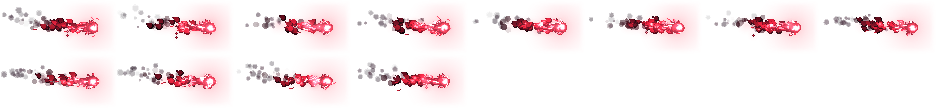
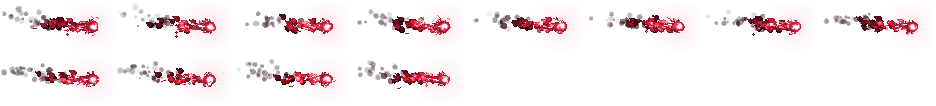
Battle effects at 2x, less glow (#64)
* Battle effects at 2x with less baked glow

- Effects draw at least 2 screen px per effect pixel (FX_PIXEL); runes, ground fire, heal ring and the
  Asteria coin blast keep 1x via px
- Sheets re-rendered with glow 0.45 (lightning keeps 1); kill puff uses a dark dust palette
- The four most common sheets (hit spark, crit, puff, violet burst) are now in tools/pfx_sheets.mjs

* Calmer hero-side effects

- Elite auras at 0.45 alpha, fading further when more than three elites are on the field
- Stun stars back to 1x; mage stun beam thinner and shorter, smaller ring; bard song ring and notes lighter
- Elite shock: lightning sprite on at most four targets, at 1x (fx_shock_small); bosses keep the big one

---------

diff --git a/js/data/fx_sheets.js b/js/data/fx_sheets.js
@@ -2,49 +2,54 @@
 // 열쇠는 코드가 부르는 효과 이름이다(이전 효과 그림의 이름을 그대로 쓴다). 그림은 assets/fx/<image>.png, 한 줄에 cols칸씩 왼쪽 위부터 채운다.
 // pivot은 Fx.anim에 넘긴 좌표가 닿는 그림 속 점, life는 재생 길이(초), fit은 화면 1배로 그리는 기준 size(화면 px)다.
 // loop가 true면 상태 표시처럼 Game.time에 맞춰 반복해 그린다(Render.drawLoopSheet). shot이 true면 투사체 그림이다(날아가는 방향으로 돌린다)
+// 효과 픽셀 하나를 화면 몇 px 이상으로 그리는가. pixelfx 효과는 작은 캐릭터 기준이라 몬스터(키 76px 안팎) 옆에서는 2배라야 또렷하다.
+// 시트마다 px로 바꿀 수 있다(바닥에 깔리는 룬과 장판, 해상도가 높은 Asteria 그림은 1)
+const FX_PIXEL = 2;
+
 const FX_SHEETS = {
     // add: 검은 바탕 그림이라 빛을 더해(lighter) 그린다
     // 정예와 보스 처치: Asteria 해적 선장의 동전 폭발(tools/import_asteria_gold.py)
-    fx_coin_blast: { image: 'pfx_coin_blast', w: 128, h: 128, cols: 8, frames: 8, pivotX: 64, pivotY: 64, life: 0.6, fit: 128, add: true },
+    fx_coin_blast: { image: 'pfx_coin_blast', w: 128, h: 128, cols: 8, frames: 8, pivotX: 64, pivotY: 64, life: 0.6, fit: 128, add: true, px: 1 },
     // 정예 용사 오라: Asteria 모험가 오라 그대로(tools/import_asteria_heroes.py). 몸 뒤에서 돈다
     fx_aura_elite_swordsman: { image: 'pfx_aura_nightExecutioner', w: 128, h: 128, cols: 8, frames: 8, pivotX: 64, pivotY: 64, life: 0.8, fit: 128, loop: true },
     fx_aura_elite_tamer: { image: 'pfx_aura_mistBlade', w: 128, h: 128, cols: 8, frames: 8, pivotX: 64, pivotY: 64, life: 0.8, fit: 128, loop: true },
     fx_aura_elite_stormcaller: { image: 'pfx_aura_thunderSage', w: 128, h: 128, cols: 8, frames: 8, pivotX: 64, pivotY: 64, life: 0.8, fit: 128, loop: true },
     fx_aura_elite_rhapsodist: { image: 'pfx_aura_sunMoonDance', w: 128, h: 128, cols: 8, frames: 8, pivotX: 64, pivotY: 64, life: 0.8, fit: 128, loop: true },
-    fx_hit_physical: { image: 'pfx_hit_spark', w: 122, h: 71, cols: 8, frames: 15, pivotX: 34, pivotY: 36, life: 0.5, fit: 110 }, // impacts/hit-spark
-    fx_hit_crit: { image: 'pfx_crit_hit', w: 174, h: 131, cols: 8, frames: 18, pivotX: 77, pivotY: 76, life: 0.6, fit: 150 }, // impacts/crit-hit
-    fx_explosion: { image: 'pfx_poof', w: 91, h: 76, cols: 8, frames: 18, pivotX: 43, pivotY: 40, life: 0.6, fit: 100 }, // spawn/poof
-    fx_blastViolet: { image: 'pfx_mana_burst', w: 170, h: 146, cols: 8, frames: 16, pivotX: 85, pivotY: 93, life: 0.533, fit: 180 }, // arcane/mana-burst
+    fx_hit_physical: { image: 'pfx_hit_spark', w: 119, h: 70, cols: 8, frames: 15, pivotX: 32, pivotY: 56, life: 0.5, fit: 110 }, // impacts/hit-spark
+    fx_hit_crit: { image: 'pfx_crit_hit', w: 170, h: 129, cols: 8, frames: 18, pivotX: 74, pivotY: 100, life: 0.6, fit: 150 }, // impacts/crit-hit
+    fx_explosion: { image: 'pfx_poof', w: 86, h: 75, cols: 8, frames: 18, pivotX: 39, pivotY: 64, life: 0.6, fit: 100 }, // spawn/poof
+    fx_blastViolet: { image: 'pfx_mana_burst', w: 167, h: 145, cols: 8, frames: 16, pivotX: 85, pivotY: 92, life: 0.533, fit: 180 }, // arcane/mana-burst
     // 이전 효과 그림을 바꾼 것
     fx_hit_lightning: { image: 'pfx_zap_hit', w: 129, h: 104, cols: 8, frames: 14, pivotX: 75, pivotY: 52, life: 0.45, fit: 130 }, // lightning/zap-hit
-    fx_hit_fire: { image: 'pfx_fire_blast', w: 206, h: 190, cols: 8, frames: 20, pivotX: 108, pivotY: 95, life: 0.7, fit: 200 }, // explosions/plasma-explosion(불 팔레트)
-    fx_blastGold: { image: 'pfx_gold_burst', w: 170, h: 146, cols: 8, frames: 16, pivotX: 85, pivotY: 93, life: 0.6, fit: 180 }, // arcane/mana-burst(금색)
-    fx_blastCyan: { image: 'pfx_cyan_burst', w: 170, h: 146, cols: 8, frames: 16, pivotX: 85, pivotY: 93, life: 0.5, fit: 180 }, // arcane/mana-burst(청록)
-    fx_blastPink: { image: 'pfx_roar', w: 151, h: 114, cols: 8, frames: 20, pivotX: 76, pivotY: 63, life: 0.9, fit: 150 }, // scifi/emp-blast(분홍)
+    fx_shock_small: { image: 'pfx_zap_hit', w: 129, h: 104, cols: 8, frames: 14, pivotX: 75, pivotY: 52, life: 0.45, fit: 130, px: 1 }, // 용사(정예 뇌술사)의 범위 감전: 같은 그림을 1배로
+    fx_hit_fire: { image: 'pfx_fire_blast', w: 200, h: 190, cols: 8, frames: 20, pivotX: 102, pivotY: 95, life: 0.7, fit: 200 }, // explosions/plasma-explosion(불 팔레트)
+    fx_blastGold: { image: 'pfx_gold_burst', w: 167, h: 145, cols: 8, frames: 16, pivotX: 85, pivotY: 92, life: 0.6, fit: 180 }, // arcane/mana-burst(금색)
+    fx_blastCyan: { image: 'pfx_cyan_burst', w: 167, h: 145, cols: 8, frames: 16, pivotX: 85, pivotY: 92, life: 0.5, fit: 180 }, // arcane/mana-burst(청록)
+    fx_blastPink: { image: 'pfx_roar', w: 151, h: 112, cols: 8, frames: 20, pivotX: 76, pivotY: 62, life: 0.9, fit: 150 }, // scifi/emp-blast(분홍)
     fx_adv_arcanist_lightning: { image: 'pfx_lightning_strike', w: 231, h: 262, cols: 8, frames: 19, pivotX: 115, pivotY: 227, life: 0.8, fit: 300 }, // lightning/lightning-strike
     fx_adv_arcanist_thunderGod: { image: 'pfx_thunderclap', w: 254, h: 151, cols: 8, frames: 23, pivotX: 128, pivotY: 110, life: 0.9, fit: 254 }, // lightning/thunderclap
-    fx_adv_doomMelody_requiem: { image: 'pfx_soul_rise', w: 88, h: 114, cols: 8, frames: 20, pivotX: 44, pivotY: 101, life: 0.9, fit: 120 }, // spawn/soul-rise(보라)
+    fx_adv_doomMelody_requiem: { image: 'pfx_soul_rise', w: 84, h: 113, cols: 8, frames: 20, pivotX: 42, pivotY: 100, life: 0.9, fit: 120 }, // spawn/soul-rise(보라)
     // 투사체(pivot은 앞 끝)
-    fx_arrowPoison: { image: 'pfx_arrow', w: 94, h: 18, cols: 8, frames: 9, pivotX: 88, pivotY: 10, life: 0.3, fit: 90, shot: true }, // projectiles/arrow
-    fx_arrowBig: { image: 'pfx_arrow', w: 94, h: 18, cols: 8, frames: 9, pivotX: 88, pivotY: 10, life: 0.3, fit: 90, shot: true }, // 같은 화살을 2배로
-    fx_shot_curse: { image: 'pfx_arrow_curse', w: 94, h: 18, cols: 8, frames: 9, pivotX: 88, pivotY: 10, life: 0.3, fit: 90, shot: true }, // projectiles/arrow(보라)
-    fx_shot_fire: { image: 'pfx_fireball', w: 117, h: 54, cols: 8, frames: 12, pivotX: 94, pivotY: 27, life: 0.6, fit: 110, shot: true }, // fire/fireball
-    fx_shot_blood: { image: 'pfx_bloodball', w: 117, h: 54, cols: 8, frames: 12, pivotX: 94, pivotY: 27, life: 0.6, fit: 110, shot: true }, // fire/fireball(핏빛)
-    fx_shot_ice: { image: 'pfx_ice_lance', w: 142, h: 50, cols: 8, frames: 12, pivotX: 129, pivotY: 25, life: 0.4, fit: 130, shot: true }, // ice/ice-lance
-    fx_shot_axe: { image: 'pfx_axe', w: 97, h: 48, cols: 8, frames: 15, pivotX: 72, pivotY: 24, life: 0.5, fit: 90, shot: true }, // projectiles/energy-disc(강철)
-    fx_shot_jester: { image: 'pfx_jester_disc', w: 97, h: 48, cols: 8, frames: 15, pivotX: 72, pivotY: 24, life: 0.5, fit: 90, shot: true }, // projectiles/energy-disc(분홍)
+    fx_arrowPoison: { image: 'pfx_arrow', w: 93, h: 16, cols: 8, frames: 9, pivotX: 88, pivotY: 9, life: 0.3, fit: 90, shot: true }, // projectiles/arrow
+    fx_arrowBig: { image: 'pfx_arrow', w: 93, h: 16, cols: 8, frames: 9, pivotX: 88, pivotY: 9, life: 0.3, fit: 90, shot: true }, // 같은 화살을 2배로
+    fx_shot_curse: { image: 'pfx_arrow_curse', w: 93, h: 16, cols: 8, frames: 9, pivotX: 88, pivotY: 9, life: 0.3, fit: 90, shot: true }, // projectiles/arrow(보라)
+    fx_shot_fire: { image: 'pfx_fireball', w: 117, h: 53, cols: 8, frames: 12, pivotX: 94, pivotY: 26, life: 0.6, fit: 110, shot: true }, // fire/fireball
+    fx_shot_blood: { image: 'pfx_bloodball', w: 117, h: 53, cols: 8, frames: 12, pivotX: 94, pivotY: 26, life: 0.6, fit: 110, shot: true }, // fire/fireball(핏빛)
+    fx_shot_ice: { image: 'pfx_ice_lance', w: 142, h: 44, cols: 8, frames: 12, pivotX: 129, pivotY: 22, life: 0.4, fit: 130, shot: true }, // ice/ice-lance
+    fx_shot_axe: { image: 'pfx_axe', w: 96, h: 48, cols: 8, frames: 15, pivotX: 72, pivotY: 24, life: 0.5, fit: 90, shot: true }, // projectiles/energy-disc(강철)
+    fx_shot_jester: { image: 'pfx_jester_disc', w: 96, h: 48, cols: 8, frames: 15, pivotX: 72, pivotY: 24, life: 0.5, fit: 90, shot: true }, // projectiles/energy-disc(분홍)
     // 몬스터 능력
-    fx_burning: { image: 'pfx_burning', w: 78, h: 100, cols: 8, frames: 15, pivotX: 39, pivotY: 71, life: 1.5, fit: 100, loop: true }, // fire/spirit-flame(불)
-    fx_fire_ground: { image: 'pfx_fire_ground', w: 162, h: 122, cols: 8, frames: 8, pivotX: 81, pivotY: 87, life: 0.8, fit: 160, loop: true }, // fire/fire-ring
-    fx_snowflake: { image: 'pfx_snowflake', w: 126, h: 115, cols: 8, frames: 20, pivotX: 63, pivotY: 74, life: 0.8, fit: 130 }, // ice/snowflake-burst
-    fx_stunned: { image: 'pfx_stunned', w: 50, h: 39, cols: 8, frames: 15, pivotX: 24, pivotY: 20, life: 1, fit: 50, loop: true }, // status/stunned
-    fx_heal: { image: 'pfx_heal', w: 77, h: 88, cols: 8, frames: 19, pivotX: 36, pivotY: 51, life: 0.7, fit: 80 }, // pickups/collect-burst(초록)
-    fx_lifesteal: { image: 'pfx_lifesteal', w: 77, h: 88, cols: 8, frames: 19, pivotX: 36, pivotY: 51, life: 0.6, fit: 80 }, // pickups/collect-burst(붉은)
-    fx_gold: { image: 'pfx_gold', w: 77, h: 88, cols: 8, frames: 19, pivotX: 36, pivotY: 51, life: 0.8, fit: 80 }, // pickups/collect-burst(금색)
-    fx_heal_aoe: { image: 'pfx_heal_aoe', w: 234, h: 117, cols: 8, frames: 22, pivotX: 117, pivotY: 86, life: 1.2, fit: 230 }, // holy/heal-aoe
-    fx_rune_heal: { image: 'pfx_rune_heal', w: 118, h: 95, cols: 8, frames: 15, pivotX: 59, pivotY: 75, life: 4, fit: 120, loop: true }, // arcane/rune-circle(초록)
-    fx_rune_damage: { image: 'pfx_rune_damage', w: 118, h: 95, cols: 8, frames: 15, pivotX: 59, pivotY: 75, life: 4, fit: 120, loop: true }, // arcane/rune-circle(붉은)
-    fx_rune_attackSpeed: { image: 'pfx_rune_speed', w: 118, h: 96, cols: 8, frames: 15, pivotX: 59, pivotY: 76, life: 4, fit: 120, loop: true }, // arcane/rune-circle(노랑)
-    fx_cleave: { image: 'pfx_cleave', w: 183, h: 101, cols: 8, frames: 23, pivotX: 79, pivotY: 82, life: 0.5, fit: 180 }, // melee/spin-slash(주황)
-    fx_thorns: { image: 'pfx_thorns', w: 203, h: 77, cols: 8, frames: 20, pivotX: 100, pivotY: 64, life: 0.8, fit: 200 } // nature/thorns
+    fx_burning: { image: 'pfx_burning', w: 76, h: 98, cols: 8, frames: 15, pivotX: 38, pivotY: 70, life: 1.5, fit: 100, loop: true }, // fire/spirit-flame(불)
+    fx_fire_ground: { image: 'pfx_fire_ground', w: 152, h: 117, cols: 8, frames: 8, pivotX: 76, pivotY: 82, life: 0.8, fit: 160, loop: true, px: 1 }, // fire/fire-ring
+    fx_snowflake: { image: 'pfx_snowflake', w: 120, h: 113, cols: 8, frames: 20, pivotX: 60, pivotY: 73, life: 0.8, fit: 130 }, // ice/snowflake-burst
+    fx_stunned: { image: 'pfx_stunned', w: 50, h: 37, cols: 8, frames: 15, pivotX: 24, pivotY: 55, life: 1, fit: 50, loop: true, px: 1 }, // status/stunned
+    fx_heal: { image: 'pfx_heal', w: 77, h: 87, cols: 8, frames: 19, pivotX: 36, pivotY: 51, life: 0.7, fit: 80 }, // pickups/collect-burst(초록)
+    fx_lifesteal: { image: 'pfx_lifesteal', w: 77, h: 87, cols: 8, frames: 19, pivotX: 36, pivotY: 51, life: 0.6, fit: 80 }, // pickups/collect-burst(붉은)
+    fx_gold: { image: 'pfx_gold', w: 77, h: 87, cols: 8, frames: 19, pivotX: 36, pivotY: 51, life: 0.8, fit: 80 }, // pickups/collect-burst(금색)
+    fx_heal_aoe: { image: 'pfx_heal_aoe', w: 232, h: 114, cols: 8, frames: 22, pivotX: 116, pivotY: 83, life: 1.2, fit: 230, px: 1 }, // holy/heal-aoe
+    fx_rune_heal: { image: 'pfx_rune_heal', w: 116, h: 89, cols: 8, frames: 15, pivotX: 58, pivotY: 70, life: 4, fit: 120, loop: true, px: 1 }, // arcane/rune-circle(초록)
+    fx_rune_damage: { image: 'pfx_rune_damage', w: 116, h: 89, cols: 8, frames: 15, pivotX: 58, pivotY: 70, life: 4, fit: 120, loop: true, px: 1 }, // arcane/rune-circle(붉은)
+    fx_rune_attackSpeed: { image: 'pfx_rune_speed', w: 116, h: 90, cols: 8, frames: 15, pivotX: 58, pivotY: 71, life: 4, fit: 120, loop: true, px: 1 }, // arcane/rune-circle(노랑)
+    fx_cleave: { image: 'pfx_cleave', w: 183, h: 99, cols: 8, frames: 23, pivotX: 79, pivotY: 80, life: 0.5, fit: 180 }, // melee/spin-slash(주황)
+    fx_thorns: { image: 'pfx_thorns', w: 203, h: 76, cols: 8, frames: 20, pivotX: 26, pivotY: 63, life: 0.8, fit: 200 } // nature/thorns
 };

diff --git a/js/game/hero.js b/js/game/hero.js
@@ -207,8 +207,8 @@ function updateMageCast(h, dt) {
     h.cast = def.stunEvery;
     h.atkPose = h.atkPoseMax = def.atkTime || ATTACK_POSE_TIME; // 정예 그림에는 atkTime이 없다
     applyStun(target, def.stunTime);
-    Fx.beam(w.x, w.y - (h.elite ? 80 : 44), target.x, target.y - 60, '#7fd8ff', 8, 0.3);
-    Fx.ring(target.x, target.y - 30, 100, '#7fd8ff', 0.4);
+    Fx.beam(w.x, w.y - (h.elite ? 80 : 44), target.x, target.y - 60, '#7fd8ff', 4, 0.22); // 용사 쪽 효과는 몬스터 효과보다 작고 짧게
+    Fx.ring(target.x, target.y - 30, 60, '#7fd8ff', 0.3);
     if (Math.random() < 0.3) Fx.say(w.x, w.y - 150, '멈춰라!', 0.9);
     Sfx.play('stun');
 }
@@ -231,8 +231,8 @@ function updateSong(h, dt) {
         o.haste = Math.max(o.haste, rule.duration);
         o.hasteMul = rule.speedMul;
     }
-    Fx.ring(w.x, w.y, rule.radius * TILE, '#8dffb4', 0.5);
-    Fx.rise(w.x, w.y - 90, '#b8ffcf', 14, 40, 0.8);
+    Fx.ring(w.x, w.y, rule.radius * TILE, '#8dffb4', 0.35);
+    Fx.rise(w.x, w.y - 90, '#b8ffcf', 8, 40, 0.6);
     if (Math.random() < 0.3) Fx.say(w.x, w.y - 250, '달려라, 친구들!', 0.9);
     Sfx.play('spawn');
 }
@@ -282,12 +282,13 @@ function updateWindup(h, dt) {
     for (const t of targets) applyStun(t, b.stun);
     if (b.kind === 'shock') {
         const big = h.boss;
-        for (const t of targets) {
+        // 용사 쪽 감전: 번개 그림은 앞의 4마리까지만, 정예는 1배 크기(몬스터 번개보다 작게)
+        targets.forEach((t, i) => {
             Fx.bolt(t.x, t.y - 30, '#bfe9ff');
-            Fx.anim('fx_hit_lightning', t.x, t.y - 60, big ? 390 : 300, 0.4);
-        }
-        Fx.ring(b.x, b.y, b.range * TILE, '#7fd8ff', 0.5);
-        Fx.burst(b.x, b.y, '#bfe9ff', big ? 44 : 22, big ? 680 : 420, 0.5, 7);
+            if (i < 4) Fx.anim(big ? 'fx_hit_lightning' : 'fx_shock_small', t.x, t.y - 60, big ? 390 : 150, 0.4);
+        });
+        Fx.ring(b.x, b.y, b.range * TILE, '#7fd8ff', big ? 0.5 : 0.35);
+        Fx.burst(b.x, b.y, '#bfe9ff', big ? 44 : 10, big ? 680 : 300, 0.5, 7);
         Fx.glow(b.x, b.y, b.range * TILE, 'rgba(120,200,255,1)', 0.25);
         Fx.addShake(big ? 22 : 8);
     } else {

diff --git a/js/game/render.js b/js/game/render.js
@@ -461,7 +461,9 @@ const Render = {
                 // 정예 표시: 몸 뒤에서 도는 Asteria 오라(그림 1px = 화면 1px). 검은 바탕 그림이라 빛을 더해 그린다
                 ctx.save();
                 ctx.globalCompositeOperation = 'lighter';
-                this.drawLoopSheet(ctx, `fx_aura_${h.type}`, p.x, p.y + 10 - def.barY * 0.45, 128 * ART_SCALE, h.lane * 0.13, 0.9);
+                // 여럿이 모이면 화면을 덮으므로 옅게: 기본 0.45, 정예가 셋을 넘으면 그만큼 더 옅게
+                const elites = Game.heroes.reduce((n, o) => n + (o.elite && !o.dead && !o.waiting ? 1 : 0), 0);
+                this.drawLoopSheet(ctx, `fx_aura_${h.type}`, p.x, p.y + 10 - def.barY * 0.45, 128 * ART_SCALE, h.lane * 0.13, 0.45 * Math.min(1, 3 / Math.max(1, elites)));
                 ctx.restore();
             } else {
                 this.shadow(ctx, p.x, p.y + 6, 15, 5);
@@ -1670,7 +1672,7 @@ const Render = {
         const img = sheet && Assets.get(sheet.image);
         if (!img) return;
         const f = clamp(frame, 0, sheet.frames - 1);
-        const s = Math.max(1, Math.round(size * WORLD_ZOOM / sheet.fit)) / WORLD_ZOOM;
+        const s = Math.max(sheet.px || FX_PIXEL, Math.round(size * WORLD_ZOOM / sheet.fit)) / WORLD_ZOOM;
         ctx.save();
         ctx.imageSmoothingEnabled = false;
         if (alpha !== undefined) ctx.globalAlpha *= alpha;
@@ -1724,7 +1726,7 @@ const Render = {
             const img = sheet && Assets.get(sheet.image);
             if (!img) continue;
             const frame = Math.min(sheet.frames - 1, Math.floor(a.age / a.life * sheet.frames));
-            const k = Math.max(1, Math.round(a.size * WORLD_ZOOM / sheet.fit));
+            const k = Math.max(sheet.px || FX_PIXEL, Math.round(a.size * WORLD_ZOOM / sheet.fit));
             const s = k / WORLD_ZOOM;
             const x = Math.round((a.x - sheet.pivotX * s) * WORLD_ZOOM) / WORLD_ZOOM;
             const y = Math.round((a.y - sheet.pivotY * s) * WORLD_ZOOM) / WORLD_ZOOM;

diff --git a/docs/PIXELLAB_ASSETS.md b/docs/PIXELLAB_ASSETS.md
@@ -61,6 +61,9 @@ cute fantasy game unit, chunky readable silhouette, bright saturated colors, cle
 
 ## 전투 효과 (pixelfx)
 
+2026-11-08: pixelfx 효과는 작은 캐릭터 기준이라 몬스터(키 76px 안팎) 옆에서 1배로 쓰면 가늘고 흐려 보였다. 그래서 효과 픽셀 하나를 화면 2px 이상으로 그린다(`FX_PIXEL`, 시트마다 `px`로 바꿈. 룬, 장판, 회복 원, Asteria 동전 폭발은 1).
+시트를 뽑을 때 빛 세기를 0.45로 낮춘다(`tools/pfx_sheets.mjs`의 `GLOW`. 번개 셋은 1). 처치 연기는 흰색 없는 어두운 회보라 팔레트(`PAL.dust`)다.
+
 전투 효과는 모두 PixelLab이 아니라 pixelfx(https://github.com/patch-gg/pixelfx, MIT, 커밋 `a841596`)로 만든 시트를 쓴다. 표기는 `NOTICE.md`.
 
 | 옛 이름 | pixelfx id | 옵션 | 쓴 프레임 (30fps) | 재생 | 시트 |
